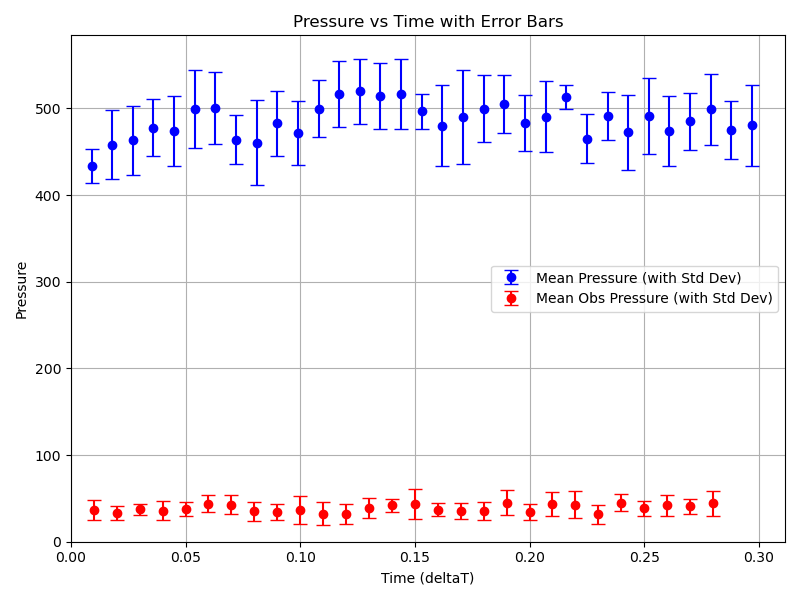
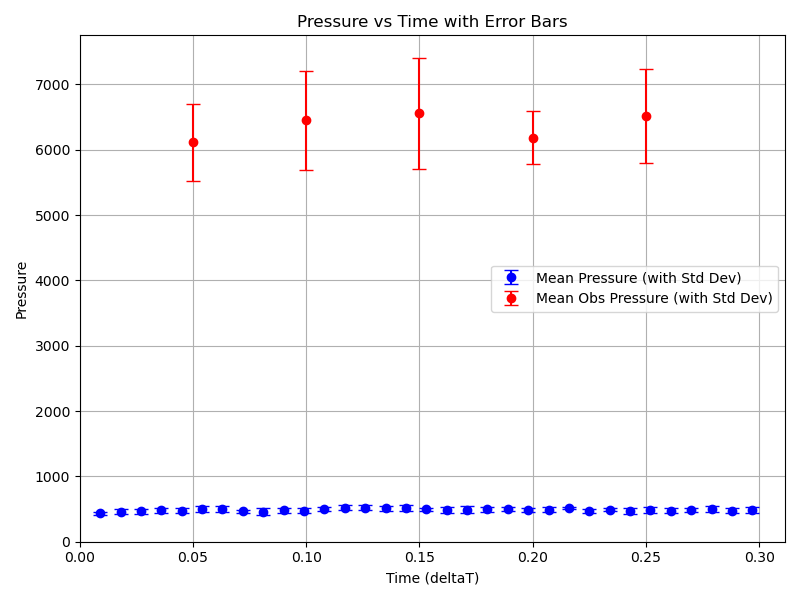
ready for testing other items

diff --git a/DMDE/src/main/java/ar/edu/itba/ss/Board.java b/DMDE/src/main/java/ar/edu/itba/ss/Board.java
@@ -13,6 +13,7 @@ public class Board {
 
     private PriorityQueue<Event> eventQueue = new PriorityQueue<>();
     private Set<Particle> particles = new TreeSet<>();
+    private Set<Particle> collisionedWithObs = new TreeSet<>();
     private Double length = 0.1;
     private Double obstacleRadius = 0.005;
     private Double particleRadius = 0.001;
@@ -26,9 +27,10 @@ public class Board {
     private Boolean movable_obstacle;
     private Double time_step;
     private Particle obstacle;
+    private Boolean firstCollisionOnly;
 
     public Board(Double mass, Double velocity, Integer N, Integer max_frames, Boolean movable_obstacle,
-            Double obstacle_mass, Double time_step) {
+            Double obstacle_mass, Double time_step, Boolean firstCollisionOnly) {
         this.mass = mass;
         this.velocity = velocity;
         this.N = N;
@@ -36,6 +38,7 @@ public class Board {
         this.obstacle_mass = obstacle_mass;
         this.movable_obstacle = movable_obstacle;
         this.time_step = time_step;
+        this.firstCollisionOnly = firstCollisionOnly;
         System.out.println("initializing board");
         initialize();
         System.out.println("finished initializing board");
@@ -79,12 +82,10 @@ public class Board {
         for (int i = 0; i < N; i++) {
             Coordinates coord = generateCoord();
             Double vx = 0.0, vy = 0.0;
-            while ((Math.pow(vx, 2) + Math.pow(vy, 2)) != 1) {
-                Integer neg = Math.random() > 0.5 ? -1 : 1;
-                vx = Math.random() * velocity * neg;
-                neg = Math.random() > 0.5 ? -1 : 1;
-                vy = Math.sqrt(velocity - Math.pow(vx, 2));
-            }
+            Integer neg = Math.random() > 0.5 ? -1 : 1;
+            vx = Math.random() * velocity * neg;
+            neg = Math.random() > 0.5 ? -1 : 1;
+            vy = Math.sqrt(velocity - Math.pow(vx, 2));
             Particle aux = new Particle(i, coord, particleRadius, vx, vy, mass);
             System.out.println("created particle " + i);
             particles.add(aux);
@@ -165,9 +166,13 @@ public class Board {
                             if (b != null) { // ambos son distintos de null
                                 updateParticles(e1.getTime());
                                 a.bounce(b);
-                                if (b.isObstacle())
+                                if (b.isObstacle()){
+                                    if(firstCollisionOnly){
+                                        if(!collisionedWithObs.add(a))
+                                            invalid = true;
+                                    }
                                     eventType = "obstacleBounce";
-                                else
+                                }else
                                     eventType = "particleBounce";
                             } else {
                                 updateParticles(e1.getTime());

diff --git a/plotter/pressure_calculation.py b/plotter/pressure_calculation.py
@@ -6,8 +6,9 @@ import pandas as pd
 import matplotlib.pyplot as plt
 
 delta_t = 0.009
-obs_delta_t = 0.01
+obs_delta_t = 0.05
 obstacle_radius = 0.005
+particle_radius = 0.001
 obstacle_perimeter = 2 * np.pi * obstacle_radius
 wall_size = 0.1
 walls_perimeter = 4 * wall_size
@@ -29,7 +30,7 @@ def calculate_pressure(file_path):
     for i, row in df.iterrows():
         total_time += row["time"]
         if total_time >= delta_counts * delta_t:
-            print(len(pressures_in_delta_t))
+            # print(len(pressures_in_delta_t))
             P = sum(pressures_in_delta_t) / (len(pressures_in_delta_t) * L * delta_t)
             pressures.append(P)
             delta_counts += 1
@@ -53,6 +54,7 @@ def calculate_pressures_obs(file_path):
                
         # Calculate the pressure at each delta_t interval
         if total_time >= delta_counts * obs_delta_t:
+            print(len(pressures_in_delta_t))
             if pressures_in_delta_t:  # Avoid division by zero
                 P = sum(pressures_in_delta_t) / (len(pressures_in_delta_t) * L * delta_t)
                 pressures.append(P)
@@ -67,9 +69,9 @@ def calculate_pressures_obs(file_path):
             b_y = row["b_y"]
             a_vx = row["a_vx"]
             a_vy = row["a_vy"]
-            p_x = b_x - a_x
-            p_y = b_y - a_y
-            
+            p_x = (b_x - a_x) /(obstacle_radius + particle_radius)
+            p_y = (b_y - a_y) /(obstacle_radius + particle_radius)
+
             normal_velocity = abs((p_x*a_vx) + (p_y * a_vy))
             pressures_in_delta_t.append(2 * normal_velocity)  # Double the normal velocity as force
 

diff --git a/DMDE/src/main/java/ar/edu/itba/ss/Config.java b/DMDE/src/main/java/ar/edu/itba/ss/Config.java
@@ -11,9 +11,10 @@ public class Config {
     private Boolean movable_obs;
     private Double obstacle_mass;
     private Double time_step;
+    private Boolean first;
 
     public Config(Double mass, Double velocity, Integer N, Double time_step, Integer max_frames, Boolean movable_obs,
-            Double obstacle_mass) {
+            Double obstacle_mass,Boolean first) {
         this.mass = mass;
         this.velocity = velocity;
         this.N = N;
@@ -21,11 +22,12 @@ public class Config {
         this.max_frames = max_frames;
         this.movable_obs = movable_obs;
         this.obstacle_mass = obstacle_mass;
+        this.first = first;
     }
 
     @Override
     public String toString() {
-        return "\nConfig{" +
+        return "\nConfig{\n" +
                 "N: " + N + ",\n" +
                 "mass: " + mass + ",\n" +
                 "velocity: " + velocity + ",\n" +
@@ -33,6 +35,7 @@ public class Config {
                 "max_frames: " + max_frames + ",\n" +
                 "movable_obs: " + movable_obs + ",\n" +
                 "obstacle_mass: " + obstacle_mass + ",\n" +
+                "first: " + first + "\n" +
                 '}';
     }
 
@@ -55,7 +58,7 @@ public class Config {
     public Boolean getMovable() {
         return movable_obs;
     }
-
+    
     public Double getObstacleMass() {
         return obstacle_mass;
     }
@@ -63,4 +66,9 @@ public class Config {
     public Double getTimeStep() {
         return time_step;
     }
+
+    public Boolean getFirst() {
+        return first;
+    }
+
 }

diff --git a/DMDE/src/main/java/ar/edu/itba/ss/App.java b/DMDE/src/main/java/ar/edu/itba/ss/App.java
@@ -26,15 +26,14 @@ public class App {
         } catch (Exception e) {
             e.printStackTrace();
         }
-
+        System.out.println(config);
         board = new Board(config.getMass(), config.getVelocity(), config.getN(), config.getMaxFrames(),
-                config.getMovable(), config.getObstacleMass(), config.getTimeStep());
+                config.getMovable(), config.getObstacleMass(), config.getTimeStep(), config.getFirst());
     }
 
     public static void main(String[] args) {
         App app = new App();
         app.setup();
-        System.out.println(config);
         board.updateBoard();
     }
 }
